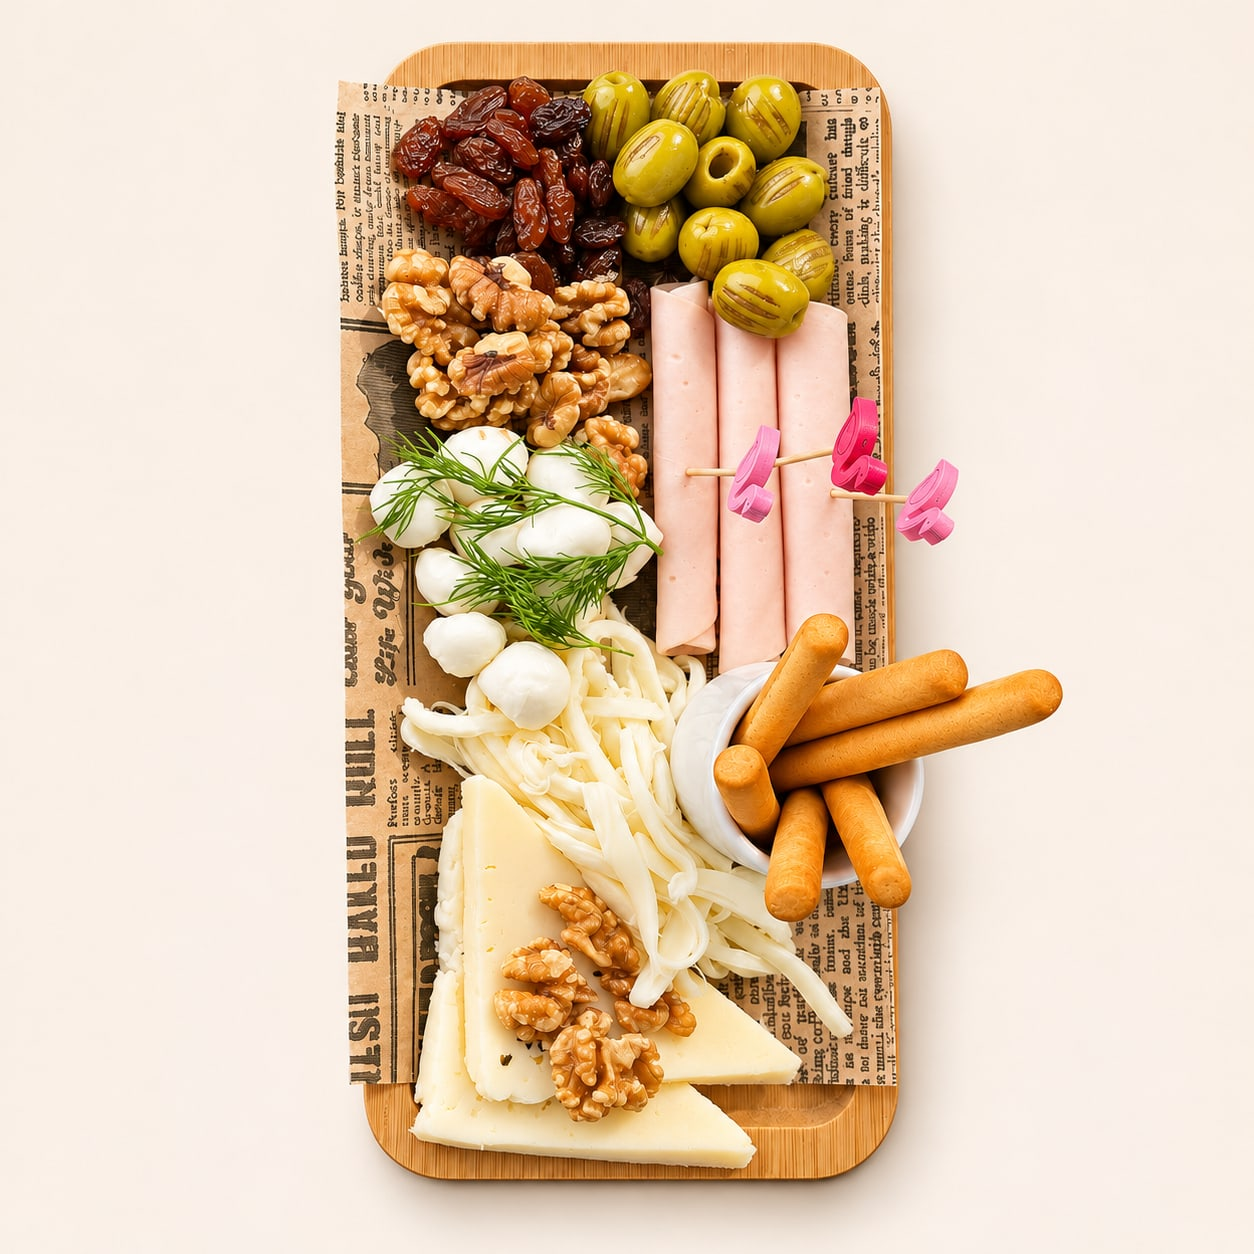
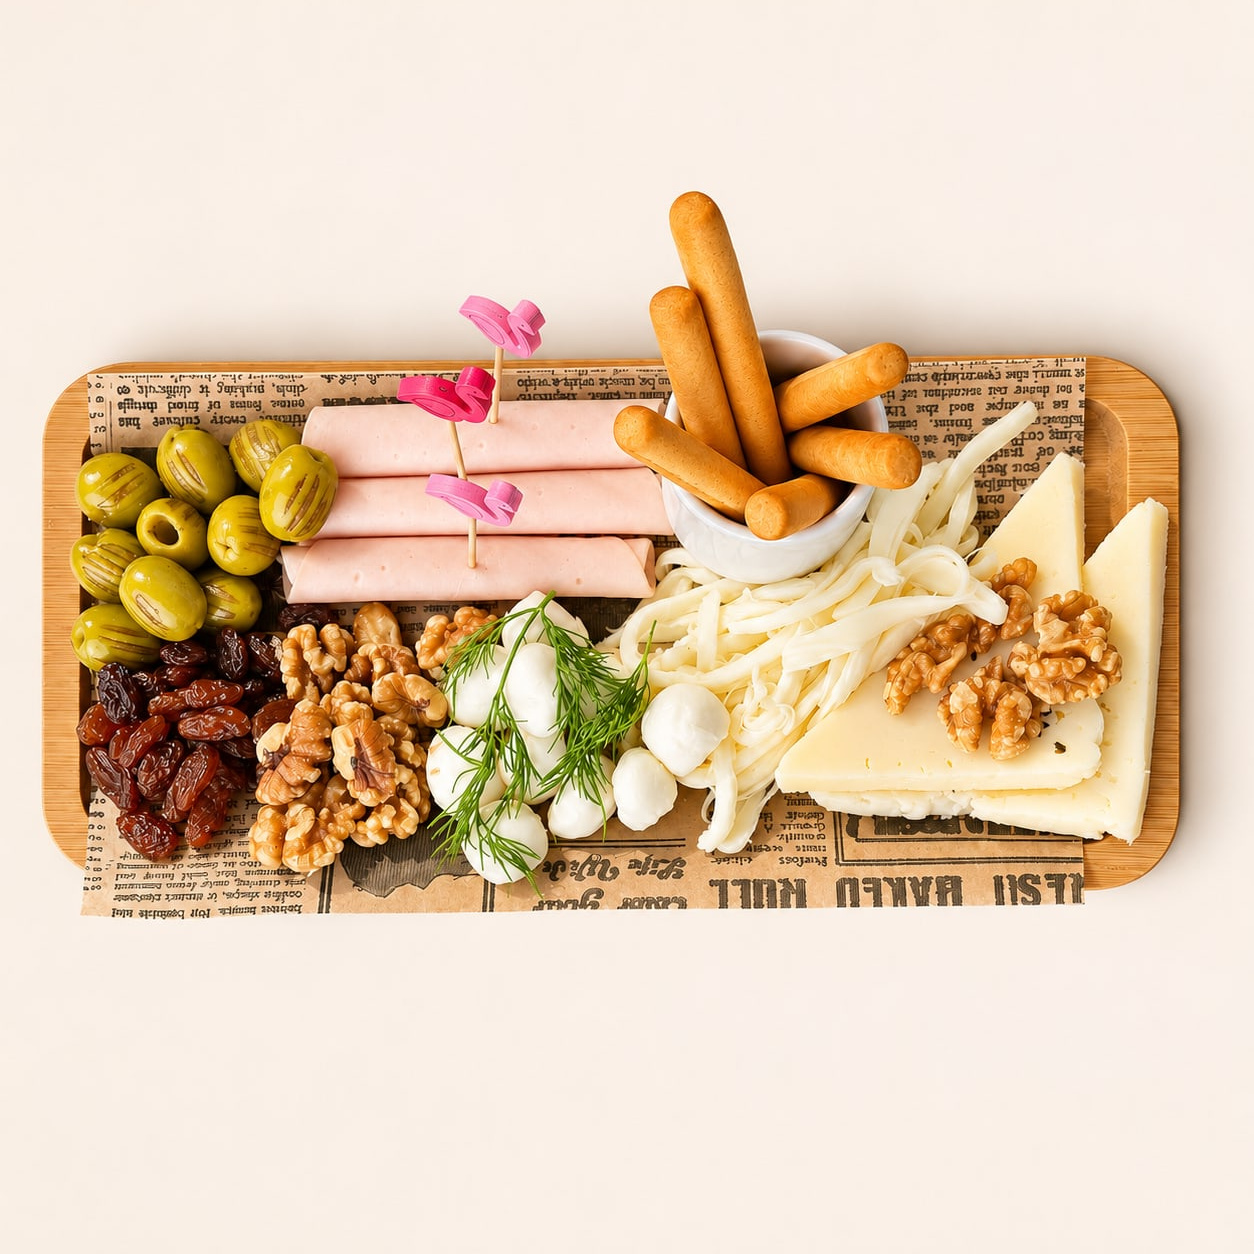
Remove price inquiry text from footer and update food images for menu

diff --git a/src/i18n/ui.ts b/src/i18n/ui.ts
@@ -24,7 +24,6 @@ export const ui = {
   'nav.lang': { tr: 'Dil', en: 'Language', ru: 'Язык', de: 'Sprache' },
   'ld.cuisine': { tr: 'Kahvaltı, Burger, Makarna, Kahve, Kokteyl', en: 'Breakfast, Burgers, Pasta, Coffee, Cocktails', ru: 'Завтраки, Бургеры, Паста, Кофе, Коктейли', de: 'Frühstück, Burger, Pasta, Kaffee, Cocktails' },
   'foot.big': { tr: 'Gece yarısına kadar buradayız.', en: 'We’re here until midnight.', ru: 'Мы открыты до полуночи.', de: 'Wir sind bis Mitternacht für Sie da.' },
-  'foot.prices': { tr: 'Fiyatları masada sorabilirsiniz.', en: 'Ask for prices at your table.', ru: 'Цены уточняйте у официанта.', de: 'Die Preise erfahren Sie am Tisch.' },
 
   'menu.title': { tr: 'Menü', en: 'Menu', ru: 'Меню', de: 'Speisekarte' },
   'menu.description': {
